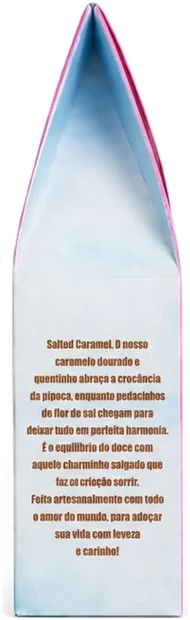
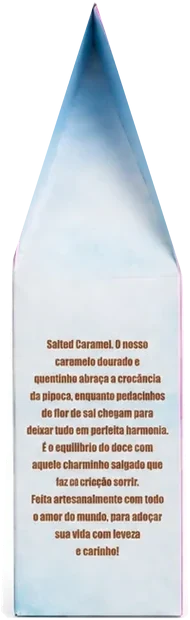
Caixa 3D no formato real da embalagem e texto novo no Quem somos
- A embalagem é de bico: frente e costas agora são retas embaixo e
  inclinam até o topo; as laterais têm o bico em triângulo que encaixa
  entre elas (antes era uma caixa reta e a lateral sobrava por cima)
- Regra de estilo que prendia todas as faces no topo corrigida
- Quem somos: texto da marca enviado pela Bites

Claude-Session: https://claude.ai/code/session_01YLmJ7uevQKNQueWA5LqTBy

Changed region(s): [[0.0789, 0.0, 0.9474, 0.429], [0.0526, 0.3984, 0.0789, 0.429]]

diff --git a/site.js b/site.js
@@ -347,44 +347,55 @@ document.querySelectorAll(".painel").forEach(p => {
 });
 
 // ---------- caixa 3D que gira com o dedo (Milky e Salted Caramel) ----------
-// faces em img/giro/<sabor>-{frente,costas,lado-logo,lado-texto}.webp — frente/costas 400×620, laterais 190×620
-const GIRO_PROP = {w:400, d:190, h:620};
+// faces em img/giro/<sabor>-{frente,costas,lado-logo,lado-texto}.webp — frente/costas 400×620, laterais 190×620.
+// A embalagem é "de bico": frente e costas são retas embaixo e inclinam pra dentro em cima (até o topo),
+// e as laterais têm o bico em triângulo. hs = altura (na foto) em que começa a inclinação.
+const GIRO_PROP = {w:400, d:190, h:620, hs:300};
 function giroHTML(p){
   const f = n => `img/giro/${p.giro}-${n}.webp`;
   return `<div class="giro" role="img" aria-label="${esc(p.nome)}: segure e arraste pra girar a embalagem">
-    <div class="giro-cena"><div class="giro-caixa">
-      <img class="giro-face frente" src="${f("frente")}" alt="" draggable="false">
-      <img class="giro-face dir" src="${f("lado-logo")}" alt="" draggable="false">
-      <img class="giro-face costas" src="${f("costas")}" alt="" draggable="false">
-      <img class="giro-face esq" src="${f("lado-texto")}" alt="" draggable="false">
+    <div class="giro-cena"><div class="giro-caixa" style="--img-frente:url(${f("frente")});--img-costas:url(${f("costas")})">
+      <div class="giro-face plano frente baixo"></div>
+      <div class="giro-face plano frente cima"></div>
+      <div class="giro-face plano costas baixo"></div>
+      <div class="giro-face plano costas cima"></div>
+      <img class="giro-face lado dir" src="${f("lado-logo")}" alt="" draggable="false">
+      <img class="giro-face lado esq" src="${f("lado-texto")}" alt="" draggable="false">
     </div></div>
     <span class="giro-dica">↔ Segure e arraste pra girar</span>
   </div>`;
 }
 function montaGiro(el){
-  const caixa = el.querySelector(".giro-caixa"), faces = [...el.querySelectorAll(".giro-face")];
-  const normais = [0, 90, 180, 270]; // frente, direita, costas, esquerda
+  const caixa = el.querySelector(".giro-caixa");
+  // cada face: ângulo da normal e se é a parte de cima (inclinada, pega mais luz)
+  const faces = [...el.querySelectorAll(".giro-face")].map(f => ({f,
+    n: f.classList.contains("costas") ? 180 : f.classList.contains("dir") ? 90 : f.classList.contains("esq") ? 270 : 0,
+    cima: f.classList.contains("cima")}));
   let ang = 0, vel = 0, raf = 0;
   function tamanho(){
     const r = el.getBoundingClientRect();
     const w = Math.min(r.width * .5, (r.height - 40) * GIRO_PROP.w / GIRO_PROP.h);
-    el.style.setProperty("--w", w + "px");
-    el.style.setProperty("--d", w * GIRO_PROP.d / GIRO_PROP.w + "px");
-    el.style.setProperty("--h", w * GIRO_PROP.h / GIRO_PROP.w + "px");
+    const d = w * GIRO_PROP.d / GIRO_PROP.w, h = w * GIRO_PROP.h / GIRO_PROP.w, hs = h * GIRO_PROP.hs / GIRO_PROP.h;
+    const l = Math.hypot(hs, d / 2); // comprimento da parte inclinada
+    const v = {w, d, h, hs, l, bgh: h * l / hs};
+    Object.entries(v).forEach(([k, x]) => el.style.setProperty("--" + k, x + "px"));
+    el.style.setProperty("--incl", Math.asin(d / 2 / l) * 180 / Math.PI + "deg");
   }
   function desenha(){
     caixa.style.transform = `rotateY(${ang}deg)`;
-    // luz: a face virada pra frente fica mais clara
-    faces.forEach((f, i) => { const c = Math.cos((normais[i] + ang) * Math.PI / 180); f.style.filter = `brightness(${(.72 + .28 * Math.max(0, c)).toFixed(3)})`; });
+    faces.forEach(({f, n, cima}) => {
+      const c = Math.max(0, Math.cos((n + ang) * Math.PI / 180));
+      f.style.filter = `brightness(${(.7 + .26 * c + (cima ? .06 : 0)).toFixed(3)})`;
+    });
   }
   tamanho(); desenha();
   new ResizeObserver(tamanho).observe(el);
   // uma volta de apresentação quando a página abre
   if (!fxReduz) {
-    const t0 = performance.now(), fim = -18, dur = 1700;
+    const t0 = performance.now(), fim = -24, dur = 1800;
     const passo = t => { const p = Math.min(1, (t - t0) / dur), k = 1 - Math.pow(1 - p, 3); ang = (-360 + fim) * k; desenha(); if (p < 1 && !el._mexeu) raf = requestAnimationFrame(passo); };
     setTimeout(() => { if (!el._mexeu) raf = requestAnimationFrame(passo); }, 350);
-  } else { ang = -18; desenha(); }
+  } else { ang = -24; desenha(); }
   let x0 = null, a0 = 0, ult = 0, tUlt = 0;
   el.addEventListener("pointerdown", e => {
     el._mexeu = true; cancelAnimationFrame(raf); vel = 0;

diff --git a/estilo.css b/estilo.css
@@ -229,11 +229,19 @@ body.em-produto main{display:none}
 .giro.girando{cursor:grabbing}
 .giro-cena{perspective:1300px;width:var(--w);height:var(--h);margin-top:-18px}
 .giro-caixa{position:relative;width:var(--w);height:var(--h);transform-style:preserve-3d;will-change:transform}
-.pag-foto.recorte .giro-face,.giro-face{position:absolute;top:0;height:var(--h);padding:0;object-fit:fill;backface-visibility:hidden;-webkit-backface-visibility:hidden;pointer-events:none}
-.giro-face.frente,.giro-face.costas{left:0;width:var(--w)}
-.giro-face.dir,.giro-face.esq{left:calc((var(--w) - var(--d)) / 2);width:var(--d)}
-.giro-face.frente{transform:translateZ(calc(var(--d) / 2))}
-.giro-face.costas{transform:rotateY(180deg) translateZ(calc(var(--d) / 2))}
+.pag-foto.recorte .giro-face,.giro-face{position:absolute;padding:0;backface-visibility:hidden;-webkit-backface-visibility:hidden;pointer-events:none}
+/* frente e costas: parte de baixo reta + parte de cima inclinada até o topo */
+.giro-face.plano{left:0;width:var(--w);background-repeat:no-repeat}
+.giro-face.frente{background-image:var(--img-frente)}
+.giro-face.costas{background-image:var(--img-costas)}
+.giro-face.baixo{top:var(--hs);height:calc(var(--h) - var(--hs));background-size:var(--w) var(--h);background-position:0 calc(-1 * var(--hs))}
+.giro-face.cima{top:calc(var(--hs) - var(--l));height:var(--l);background-size:var(--w) var(--bgh);background-position:0 0;transform-origin:50% 100%}
+.giro-face.frente.baixo{transform:translateZ(calc(var(--d) / 2))}
+.giro-face.frente.cima{transform:translateZ(calc(var(--d) / 2)) rotateX(var(--incl))}
+.giro-face.costas.baixo{transform:rotateY(180deg) translateZ(calc(var(--d) / 2))}
+.giro-face.costas.cima{transform:rotateY(180deg) translateZ(calc(var(--d) / 2)) rotateX(var(--incl))}
+/* laterais com o bico */
+.pag-foto.recorte .giro-face.lado,.giro-face.lado{top:0;left:calc((var(--w) - var(--d)) / 2);width:var(--d);height:var(--h);object-fit:fill}
 .giro-face.dir{transform:rotateY(90deg) translateZ(calc(var(--w) / 2))}
 .giro-face.esq{transform:rotateY(-90deg) translateZ(calc(var(--w) / 2))}
 .giro::after{content:"";position:absolute;left:50%;bottom:38px;width:calc(var(--w) * 1.1);height:18px;transform:translateX(-50%);background:radial-gradient(closest-side,rgba(40,90,130,.35),transparent);pointer-events:none}

diff --git a/index.html b/index.html
@@ -88,7 +88,7 @@
         <div class="sobre-txt" data-revela="lado">
           <svg class="sobre-estrela" viewBox="0 0 40 36" aria-hidden="true"><use href="#pip"/></svg>
           <h2>Não é só pipoca.<br>É Bites: doce, crocante,<br>impossível de parar</h2>
-          <p>Bites é pra quem não aceita pipoca sem graça. Se a de sempre já não te satisfaz, você acabou de achar outra coisa. <span class="dest-txt">Mais crocante. Mais coberta. Muito mais viciante.</span></p>
+          <p>Criamos a BITES com identidade, personalidade e um sabor irresistivelmente viciante, pensado para transformar pequenos momentos em experiências especiais. Mais do que um snack, queremos fazer parte das pausas, encontros e lembranças que tornam a vida mais leve e gostosa. <span class="dest-txt">Porque cada BITES é, de verdade, um pedacinho da felicidade.</span></p>
         </div>
         <div class="sobre-img sobre-img-cta" data-revela="zoom">
           <img class="img-pacote" src="img/pacote-milky.webp" data-reserva="img/milky-rosa.jpg" alt="Pacote Bites sabor Milky 110g">
